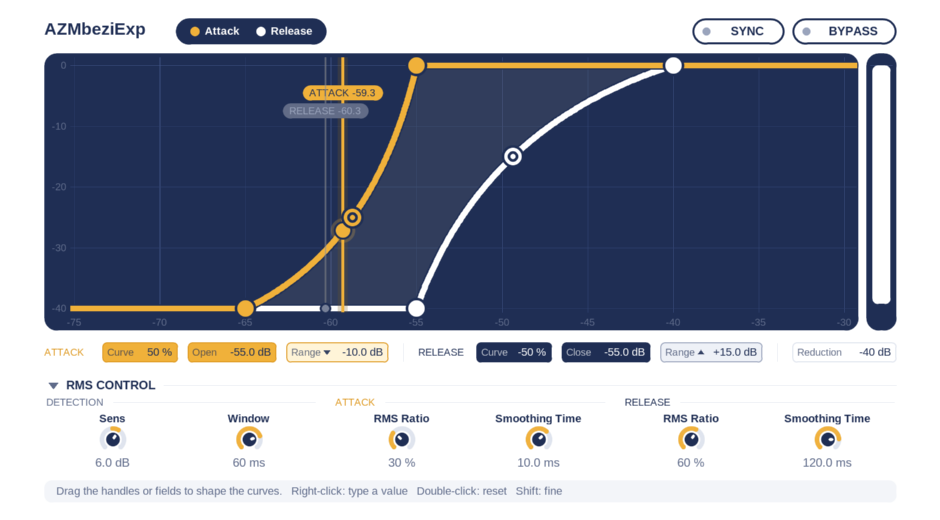
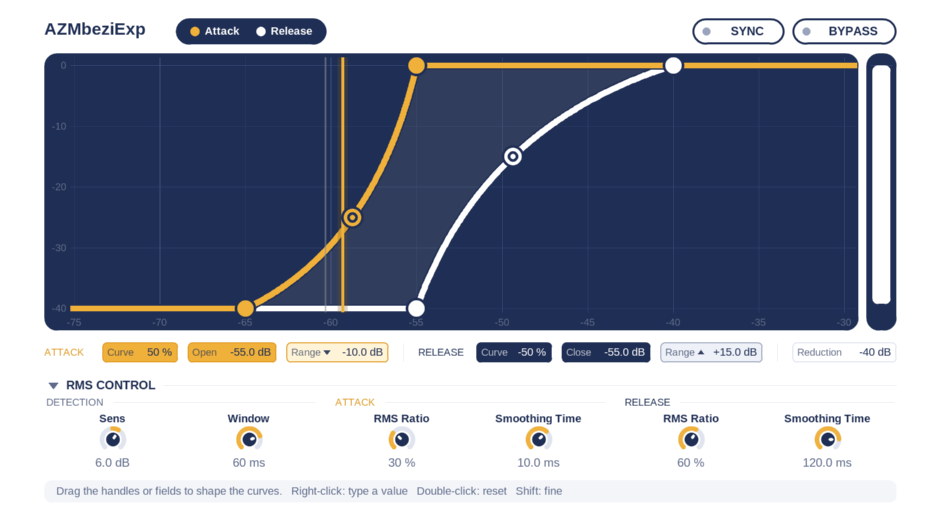
Show detection bars as lines with afterimage and edge fade
Remove the ATTACK/RELEASE chips and intersection dots, keep a short
trail of recent positions, and fade the bars out near the graph edge.
Add GUI tests and update docs and screenshot.

Changed region(s): [[0.2777, 0.1538, 0.4319, 0.2462], [0.3394, 0.4308, 0.4011, 0.4615], [0.3394, 0.5846, 0.3702, 0.6154]]

diff --git a/tests/test_ysfx.cpp b/tests/test_ysfx.cpp
@@ -401,6 +401,47 @@ static void test_axis_and_screenshot()
     }
 }
 
+// Detection bars: line only (no labels), a short afterimage trail, and fade-out near the graph edge.
+static void test_detection_bars()
+{
+    Gui e;
+    e.settle();
+    auto red = [&](double x, double y) { return int(e.pixels[(size_t(y) * 940 + size_t(x)) * 4 + 2]); };
+    // The displayed level decays slightly between frames, so positions are read back after each frame.
+    auto frame = [&](double a) {
+        e.set_var("m_a", 0); e.set_var("m_r", 0);
+        e.set_var("ui_a", a); e.set_var("ui_r", -120);
+        e.set_var("m_up", 1); e.set_var("ui_hl", 1);
+        e.mouse(0, 0, 0);
+        return e.xpix(e.var("ui_a"));
+    };
+    double y = e.px("pl_y") + 120;
+
+    double x1 = frame(-47);
+    int bar = red(x1, y);
+    check(bar > 150, "attack bar is drawn at the detected level");
+    check(red(x1 + 15, e.px("pl_y") + 32 + 7) < 100, "no label chip next to the bar");
+
+    double x2 = frame(-37);
+    double ts[4];
+    ysfx_read_vmem(e.fx, uint32_t(e.var("TH")), ts, 4);
+    near(ts[0], e.var("ui_a"), 1e-9, "newest history entry is the current attack level");
+    near(ts[2], -47, 0.5, "previous attack level is kept for the trail");
+    int ghost = red(x1, y);
+    check(ghost > 50 && ghost < bar, "previous position remains as a faint afterimage");
+    check(red(x2, y) > ghost, "current bar is brighter than its afterimage");
+
+    for (int i = 0; i < 12; ++i) x2 = frame(-37);
+    check(red(x1, y) < 60, "afterimage disappears after a few frames");
+
+    frame(e.var("v_lo") - 5);
+    check(red(e.px("g_x0"), y) < 100, "bar outside the graph is not drawn at the edge");
+    double x3 = frame(e.var("v_lo") + 2);
+    int near_edge = red(x3, y);
+    double x4 = frame(-47);
+    check(near_edge < red(x4, y), "bar fades out as it approaches the edge");
+}
+
 static void test_range_field()
 {
     Gui e;
@@ -584,6 +625,7 @@ int main()
     test_defaults();
     test_curve_shapes();
     test_axis_and_screenshot();
+    test_detection_bars();
     test_range_field();
     test_collapse_and_knobs();
     test_handle_drag();

diff --git a/README.md b/README.md
@@ -24,7 +24,7 @@ JSFX に対応したホストのエフェクト用フォルダに [`jsfx/AZMbezi
 
 **カーブの決め方（基準＋相対ゲイン）**: Attack は **Open** を基準に、そこから **Range** dB 下が Close です（Close = Open − Range）。Release は **Close** を基準に、そこから **Range** dB 上が Open です（Open = Close + Range）。基準のハンドル（Attack の Open、Release の Close）をドラッグするとカーブ全体が横へ動き、もう一方のハンドルは Range を変えます。Release の Open は 0 dB を超えません。曲線の中点にあるハンドルは斜めにドラッグし、右下方向（＋）で後から開き、左上方向（−）で早く開きます。ダブルクリックまたは Ctrl+クリックで既定値に戻します。右側の縦バーは実ゲインを示します。
 
-**検知レベルの縦棒**: グラフ上の 2 本の縦棒が、Attack 側と Release 側それぞれの検知レベル（Peak と RMS を各 RMS Ratio で混合した値）を示し、横へ動きます。棒とカーブの交点が、その側の目標ゲインです。いま目標ゲインを決めている側（傾き検知で選ばれたカーブ）の棒が太く明るく表示されます。
+**検知レベルの縦棒**: グラフ上の 2 本の縦棒が、Attack 側と Release 側それぞれの検知レベル（Peak と RMS を各 RMS Ratio で混合した値）を示し、横へ動きます。文字などの表示はなく、線だけです。いま目標ゲインを決めている側（傾き検知で選ばれたカーブ）の棒が太く明るく表示されます。動きがなめらかに見えるよう、直近数フレーム分の位置が薄い残像として残ります。棒がグラフの左右の端に近づくとフェードアウトし、範囲外では表示されません。
 
 **横軸の範囲**: 使用中のカーブの最小 Close と最大 Open から、それぞれ 10 dB 外側まで自動で設定されます。ハンドルや欄をドラッグしている間は動かず、離すとなめらかに追従します。
 
